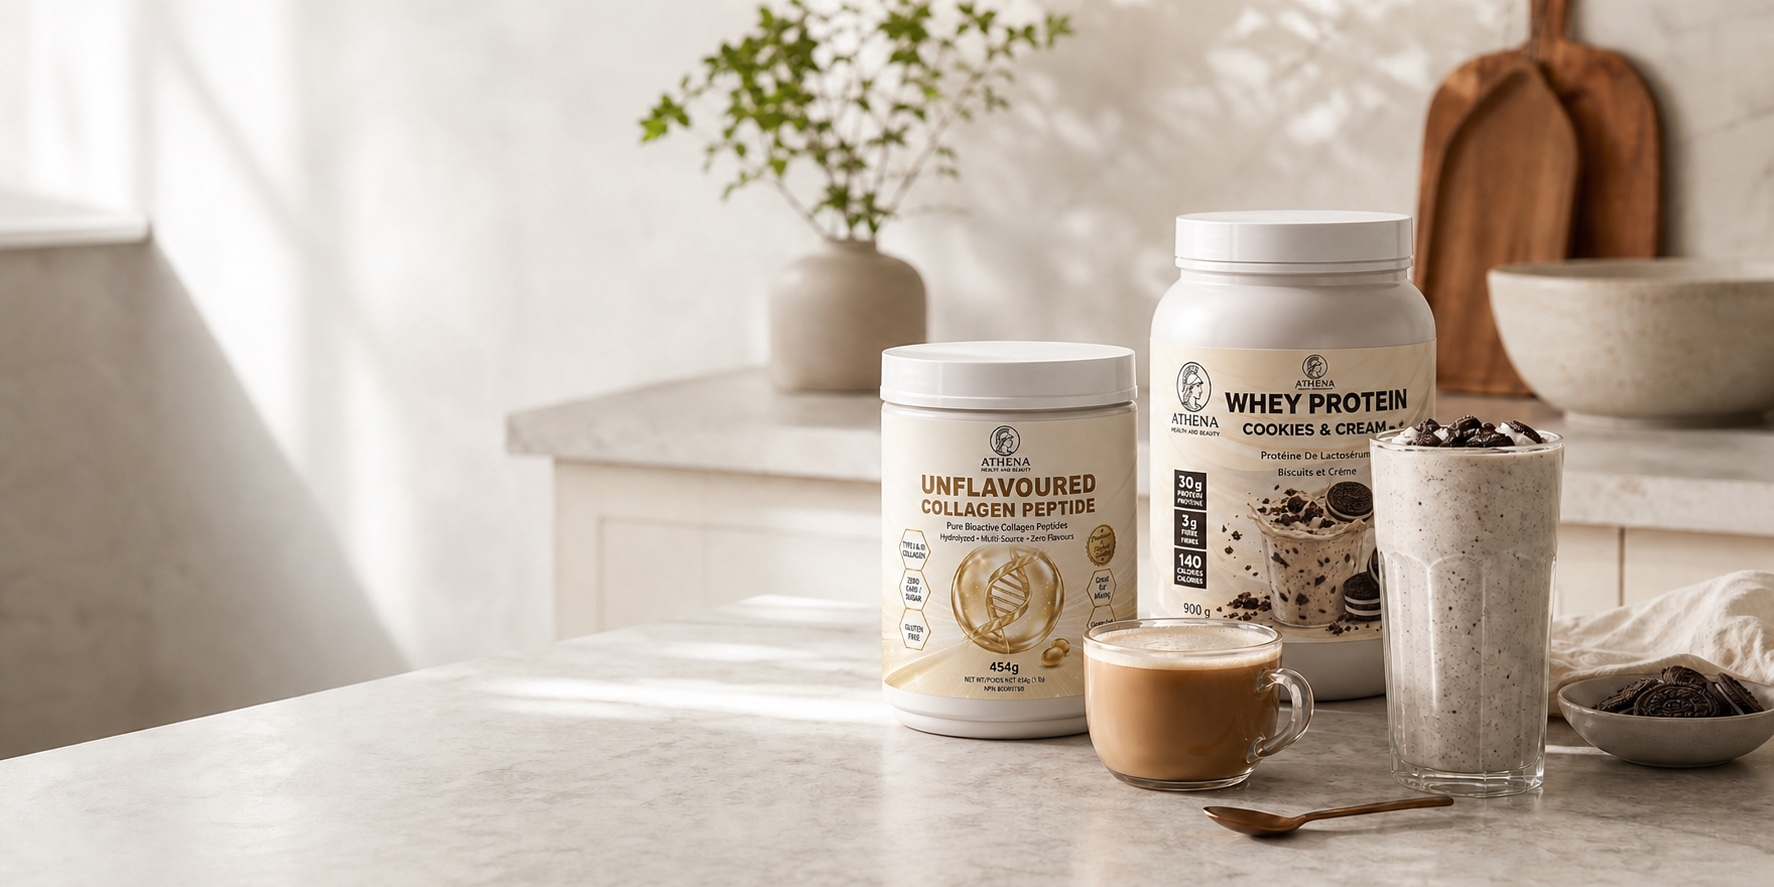
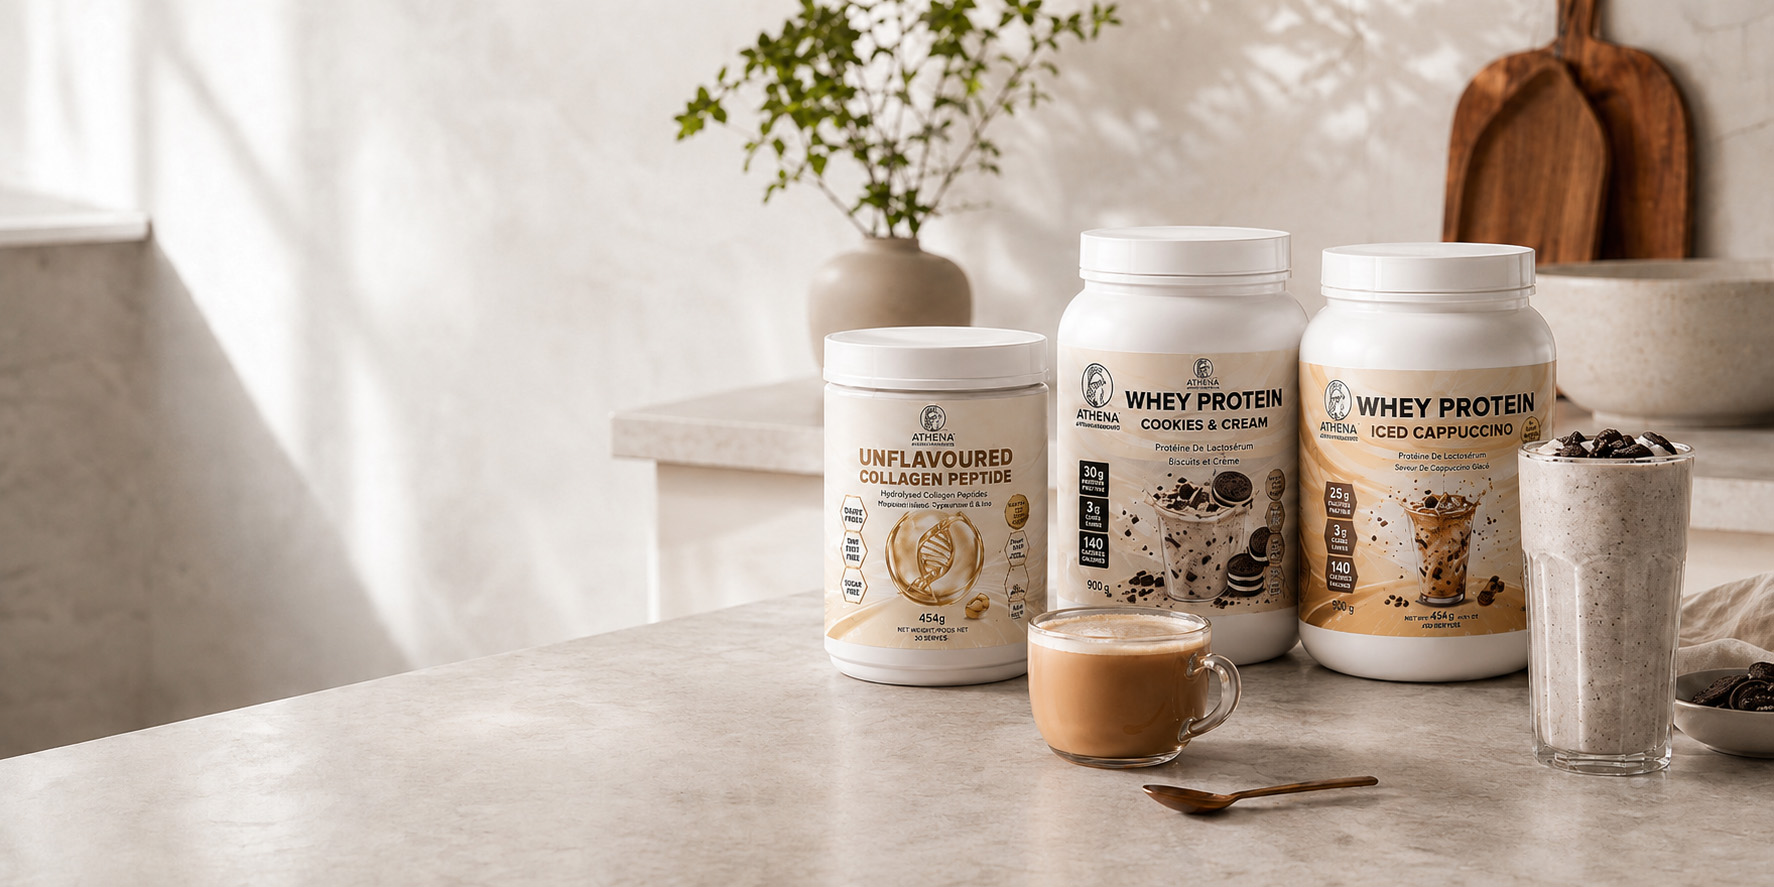
update

diff --git a/data/athena-products.ts b/data/athena-products.ts
@@ -41,4 +41,18 @@ export const featuredProducts: Product[] = [
     reviewCount: 0,
     tags: ["30 G PROTEIN", "140 CALORIES", "3 G FIBRE", "ZERO ADDED SUGAR"],
   },
+  {
+    id: "iced-cappuccino-whey-protein",
+    name: "Iced Cappuccino Flavoured Whey Protein",
+    slug: "/products/iced-cappuccino-whey-protein",
+    description:
+      "Smooth iced cappuccino flavoured whey protein for everyday fitness and recovery.",
+    size: "900 g",
+    price: "$67.99",
+    image: "/images/athena/products/iced-cap-product.jpg",
+    hoverImage: "/images/athena/hero.jpg",
+    rating: 5,
+    reviewCount: 0,
+    tags: ["30 G PROTEIN", "ICED CAPPUCCINO", "ZERO ADDED SUGAR", "GLUTEN FREE"],
+  },
 ];

diff --git a/app/globals.css b/app/globals.css
@@ -288,7 +288,7 @@ p {
   display: grid;
   margin: 0;
   gap: 24px;
-  grid-template-columns: repeat(2, minmax(0, 1fr));
+  grid-template-columns: repeat(3, minmax(0, 1fr));
 }
 
 .category-grid {